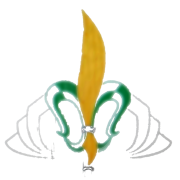
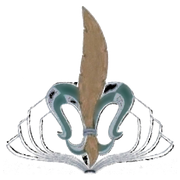
Rebuild course emblem from print photos (faithful lines, symmetric, clean transparency)

Changed region(s): [[0.0278, 0.0278, 0.9722, 0.9722]]

diff --git a/index.html b/index.html
@@ -4,9 +4,9 @@
 <meta charset="UTF-8">
 <meta name="viewport" content="width=device-width, initial-scale=1, viewport-fit=cover">
 <title>חניכי מחזור ל״ו · תמ״א</title>
-<link rel="icon" type="image/png" sizes="32x32" href="favicon-32.png?v=2">
-<link rel="icon" type="image/png" sizes="192x192" href="icon-192.png?v=2">
-<link rel="apple-touch-icon" href="apple-touch-icon.png?v=2">
+<link rel="icon" type="image/png" sizes="32x32" href="favicon-32.png?v=3">
+<link rel="icon" type="image/png" sizes="192x192" href="icon-192.png?v=3">
+<link rel="apple-touch-icon" href="apple-touch-icon.png?v=3">
 <link rel="preconnect" href="https://fonts.googleapis.com">
 <link rel="preconnect" href="https://fonts.gstatic.com" crossorigin>
 <link href="https://fonts.googleapis.com/css2?family=Rubik:wght@400;500;600;700;800&display=swap" rel="stylesheet">
@@ -139,7 +139,7 @@
 
   <header class="card">
     <a class="logo-link" href="https://etrog-lv-tama.github.io/" aria-label="סמל קורס אתרוג ל״ו · לדף הבית של המגמה">
-      <img src="logo.png?v=2" alt="סמל קורס אתרוג ל״ו">
+      <img src="logo.png?v=3" alt="סמל קורס אתרוג ל״ו">
     </a>
     <h1>חניכי מחזור ל״ו</h1>
     <div class="sub">מגמת תמ״א · כל החניכים והפרטים</div>
